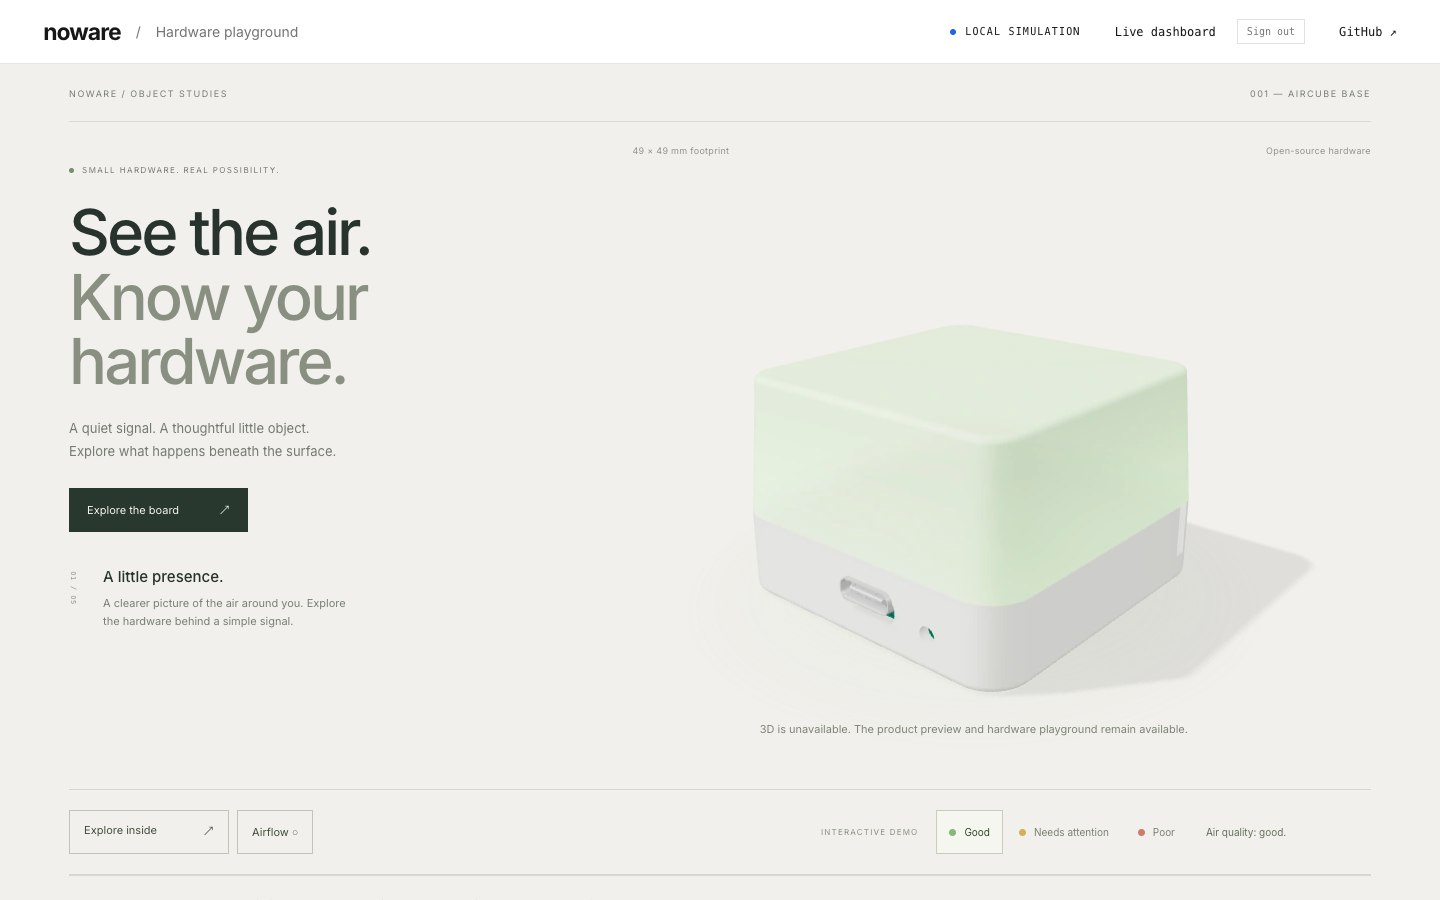
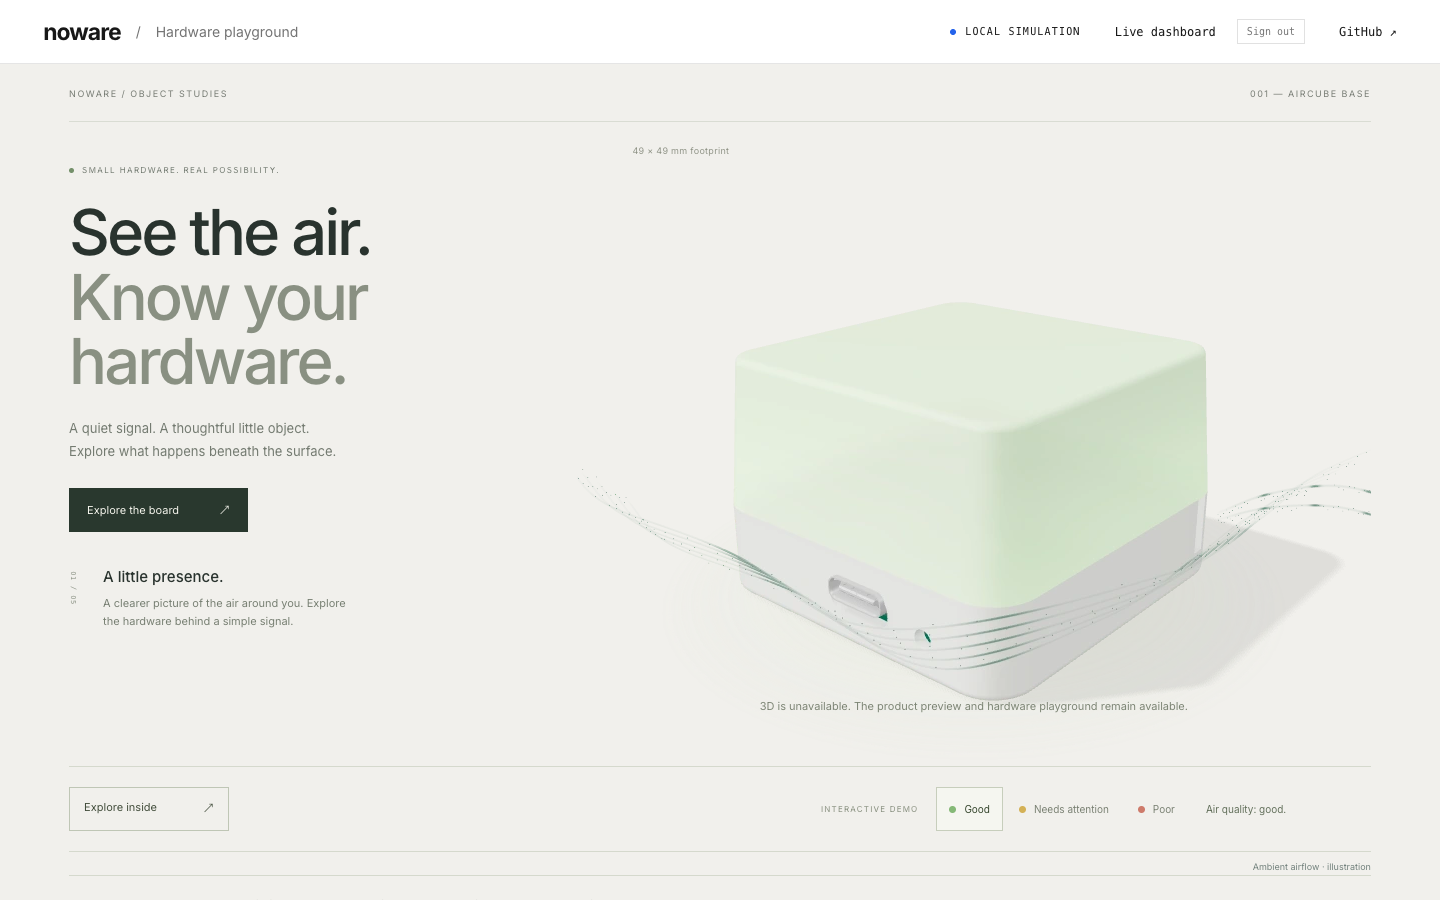
Keep airflow persistent and remove open-source label

diff --git a/src/showcase/index.js b/src/showcase/index.js
@@ -2,7 +2,7 @@ import './showcase.css';
 import {chapters,storyPose} from './config.js';
 export function mountShowcase(){
  const section=document.createElement('section');section.className='hardware-story';section.id='hardware';section.setAttribute('aria-label','Explore AirCube hardware');
- section.innerHTML=`<div class="hardware-sticky"><div class="hardware-topline"><span>NOWARE / OBJECT STUDIES</span><span>001 — AIRCUBE BASE</span></div><div class="hardware-layout"><div class="hardware-copy"><div class="hardware-kicker"><span></span> SMALL HARDWARE. REAL POSSIBILITY.</div><h2>See the air.<br><em>Know your<br class="desktop-break"> hardware.</em></h2><p class="hardware-intro">A quiet signal. A thoughtful little object.<br>Explore what happens beneath the surface.</p><a class="hardware-cta" href="#playground">Explore the board <span>↗</span></a><div class="hardware-chapter"><span id="hardware-number">01 / 05</span><h3 id="hardware-title">A little presence.</h3><p id="hardware-description">A clearer picture of the air around you. Explore the hardware behind a simple signal.</p></div></div><div class="hardware-visual"><div class="hardware-model-meta"><span>49 × 49 mm footprint</span><span>Open-source hardware</span></div><img class="hardware-poster" src="/showcase/poster.webp" alt="AirCube Base, a softly illuminated translucent top on a warm white rounded enclosure" width="1100" height="1000" fetchpriority="high"><div class="hardware-canvas"></div><div class="hardware-anchors"><button data-anchor="diffuser" data-part="diffuser" hidden>Diffuser</button><button data-anchor="U2" data-part="U2" hidden>ENS161</button><button data-anchor="pcb" data-part="pcb" hidden>Base PCB</button></div><div class="hardware-view-tools"><span>↔ Drag to rotate</span><button data-action="reset">Reset view ↺</button></div><p class="hardware-fallback" role="status">Loading the interactive model…</p></div></div><div class="hardware-controls"><div class="hardware-assembly"><button data-action="explode" aria-pressed="false">Explore inside <span>↗</span></button><button data-action="airflow" aria-pressed="false">Airflow <span>○</span></button></div><div class="hardware-air"><span class="hardware-demo">INTERACTIVE DEMO</span><div role="group" aria-label="Air quality demonstration"><button data-air="good" aria-pressed="true"><i></i>Good</button><button data-air="attention" aria-pressed="false"><i></i>Needs attention</button><button data-air="poor" aria-pressed="false"><i></i>Poor</button></div><span class="hardware-status" role="status">Air quality: good.</span></div></div><p class="hardware-flow-note" hidden>Ambient airflow · illustration</p><nav class="hardware-chapters" aria-label="Hardware story">${['Meet the hardware','Explore inside','Follow the air','Read the light','Keep exploring'].map((t,i)=>`<button data-chapter="${i}" aria-current="${i===0?'step':'false'}"><span>0${i+1}</span>${t}</button>`).join('')}<button data-action="scroll" hidden>Resume scroll story ↓</button></nav><div class="hardware-bottomline"><span>BUILT FROM REAL CAD. MADE FOR CURIOSITY.</span><a href="/showcase/README.md" target="_blank" rel="noreferrer">Model & source notes ↗</a></div></div>`;
+ section.innerHTML=`<div class="hardware-sticky"><div class="hardware-topline"><span>NOWARE / OBJECT STUDIES</span><span>001 — AIRCUBE BASE</span></div><div class="hardware-layout"><div class="hardware-copy"><div class="hardware-kicker"><span></span> SMALL HARDWARE. REAL POSSIBILITY.</div><h2>See the air.<br><em>Know your<br class="desktop-break"> hardware.</em></h2><p class="hardware-intro">A quiet signal. A thoughtful little object.<br>Explore what happens beneath the surface.</p><a class="hardware-cta" href="#playground">Explore the board <span>↗</span></a><div class="hardware-chapter"><span id="hardware-number">01 / 05</span><h3 id="hardware-title">A little presence.</h3><p id="hardware-description">A clearer picture of the air around you. Explore the hardware behind a simple signal.</p></div></div><div class="hardware-visual"><div class="hardware-model-meta"><span>49 × 49 mm footprint</span></div><img class="hardware-poster" src="/showcase/poster.webp" alt="AirCube Base, a softly illuminated translucent top on a warm white rounded enclosure" width="1100" height="1000" fetchpriority="high"><div class="hardware-canvas"></div><div class="hardware-anchors"><button data-anchor="diffuser" data-part="diffuser" hidden>Diffuser</button><button data-anchor="U2" data-part="U2" hidden>ENS161</button><button data-anchor="pcb" data-part="pcb" hidden>Base PCB</button></div><div class="hardware-view-tools"><span>↔ Drag to rotate</span><button data-action="reset">Reset view ↺</button></div><p class="hardware-fallback" role="status">Loading the interactive model…</p></div></div><div class="hardware-controls"><div class="hardware-assembly"><button data-action="explode" aria-pressed="false">Explore inside <span>↗</span></button></div><div class="hardware-air"><span class="hardware-demo">INTERACTIVE DEMO</span><div role="group" aria-label="Air quality demonstration"><button data-air="good" aria-pressed="true"><i></i>Good</button><button data-air="attention" aria-pressed="false"><i></i>Needs attention</button><button data-air="poor" aria-pressed="false"><i></i>Poor</button></div><span class="hardware-status" role="status">Air quality: good.</span></div></div><p class="hardware-flow-note">Ambient airflow · illustration</p><nav class="hardware-chapters" aria-label="Hardware story">${['Meet the hardware','Explore inside','Follow the air','Read the light','Keep exploring'].map((t,i)=>`<button data-chapter="${i}" aria-current="${i===0?'step':'false'}"><span>0${i+1}</span>${t}</button>`).join('')}<button data-action="scroll" hidden>Resume scroll story ↓</button></nav><div class="hardware-bottomline"><span>BUILT FROM REAL CAD. MADE FOR CURIOSITY.</span><a href="/showcase/README.md" target="_blank" rel="noreferrer">Model & source notes ↗</a></div></div>`;
  document.querySelector('header').after(section);
  // Keep the engineering tools available on demand, without a PCB list filling
  // the landing page. Existing event handlers and DOM references remain intact.
@@ -12,16 +12,15 @@ export function mountShowcase(){
  playground.append(intro,document.querySelector('main'));
  section.querySelector('.hardware-cta').addEventListener('click',()=>{playground.open=true;});
  const $=s=>section.querySelector(s),reduced=matchMedia('(prefers-reduced-motion: reduce)'),mobile=matchMedia('(max-width: 700px)');
- const state={progress:0,air:'good',selected:null,mode:reduced.matches||mobile.matches?'manual':'scroll',exploded:false,airflow:null,rotation:0,tilt:0,dragging:false,reduced:reduced.matches};let scene,dead=false;
- function sync(){const pose=storyPose(state.progress),expanded=state.mode==='scroll'?pose.explode>.5:state.exploded;section.dataset.mode=state.mode;section.dataset.chapter=pose.chapter;section.dataset.selected=state.selected||'';section.style.setProperty('--air-color',({good:'#7dbb70',attention:'#cea338',poor:'#d26c5c'})[state.air]);$('#hardware-number').textContent=`0${pose.chapter+1} / 05`;$('#hardware-title').textContent=chapters[pose.chapter][1];$('#hardware-description').textContent=chapters[pose.chapter][2];$('[data-action="explode"]').innerHTML=(expanded?'Reassemble':'Explore inside')+' <span>↗</span>';$('[data-action="explode"]').setAttribute('aria-pressed',expanded);const flow=state.airflow??pose.flow;$('[data-action="airflow"]').setAttribute('aria-pressed',flow);$('.hardware-flow-note').hidden=!flow;$('[data-action="scroll"]').hidden=state.mode==='scroll'||mobile.matches||state.reduced;section.querySelectorAll('[data-chapter]').forEach(b=>b.setAttribute('aria-current',+b.dataset.chapter===pose.chapter?'step':'false'));scene?.wake();}
+ const state={progress:0,air:'good',selected:null,mode:reduced.matches||mobile.matches?'manual':'scroll',exploded:false,rotation:0,tilt:0,dragging:false,reduced:reduced.matches};let scene,dead=false;
+ function sync(){const pose=storyPose(state.progress),expanded=state.mode==='scroll'?pose.explode>.5:state.exploded;section.dataset.mode=state.mode;section.dataset.chapter=pose.chapter;section.dataset.selected=state.selected||'';section.style.setProperty('--air-color',({good:'#7dbb70',attention:'#cea338',poor:'#d26c5c'})[state.air]);$('#hardware-number').textContent=`0${pose.chapter+1} / 05`;$('#hardware-title').textContent=chapters[pose.chapter][1];$('#hardware-description').textContent=chapters[pose.chapter][2];$('[data-action="explode"]').innerHTML=(expanded?'Reassemble':'Explore inside')+' <span>↗</span>';$('[data-action="explode"]').setAttribute('aria-pressed',expanded);$('[data-action="scroll"]').hidden=state.mode==='scroll'||mobile.matches||state.reduced;section.querySelectorAll('[data-chapter]').forEach(b=>b.setAttribute('aria-current',+b.dataset.chapter===pose.chapter?'step':'false'));scene?.wake();}
  function select(name){state.selected=name;section.querySelectorAll('[data-part]').forEach(b=>b.setAttribute('aria-pressed',b.dataset.part===name));sync()}
  section.addEventListener('click',e=>{const b=e.target.closest('button');if(!b)return;if(b.dataset.air){state.air=b.dataset.air;section.querySelectorAll('button[data-air]').forEach(el=>el.setAttribute('aria-pressed',el===b));$('.hardware-status').textContent='Air quality: '+({good:'good',attention:'needs attention',poor:'poor'})[state.air]+'.';}
  if(b.dataset.part)select(b.dataset.part);
- if(b.dataset.chapter){const i=+b.dataset.chapter;state.mode='manual';state.progress=i===4?1:(i+.5)/5;state.exploded=i===1||i===2;state.airflow=i===2;}
+ if(b.dataset.chapter){const i=+b.dataset.chapter;state.mode='manual';state.progress=i===4?1:(i+.5)/5;state.exploded=i===1||i===2;}
  if(b.dataset.action==='explode'){state.exploded=!(state.mode==='scroll'?storyPose(state.progress).explode>.5:state.exploded);state.mode='manual';state.progress=state.exploded?.3:.05;}
- if(b.dataset.action==='airflow')state.airflow=!(state.airflow??storyPose(state.progress).flow);
  if(b.dataset.action==='reset'){state.rotation=0;state.tilt=0;}
- if(b.dataset.action==='scroll'){state.mode='scroll';state.airflow=null;scroll();}sync();});
+ if(b.dataset.action==='scroll'){state.mode='scroll';scroll();}sync();});
  function scroll(){if(state.mode!=='scroll')return;const r=section.getBoundingClientRect();state.progress=Math.max(0,Math.min(1,-r.top/(section.offsetHeight-innerHeight)));sync()}
  function motion(){state.reduced=reduced.matches;if(state.reduced||mobile.matches){state.mode='manual';state.progress=0;state.exploded=false;}sync()}
  window.addEventListener('scroll',scroll,{passive:true});reduced.addEventListener('change',motion);mobile.addEventListener('change',motion);sync();

diff --git a/src/showcase/scene.js b/src/showcase/scene.js
@@ -23,7 +23,7 @@ export async function createScene(host,state,onSelect,onReady){
  tint.lerp(new T.Color(settings.colors[state.air]),state.reduced?1:1-Math.exp(-dt*4));diffuser.material.emissive.copy(tint);diffuser.material.color.copy(new T.Color('#faf8eb').lerp(tint,.55));diffuser.material.emissiveIntensity=.36*(1-currentExplode*.5);spill.material.color.copy(tint);spill.material.opacity=.14*(1-currentExplode*.8);
  rotation=state.reduced?state.rotation:T.MathUtils.damp(rotation,state.rotation,8,dt);tilt=state.reduced?state.tilt:T.MathUtils.damp(tilt,state.tilt,8,dt);pivot.rotation.y=rotation+(!state.reduced&&!state.dragging&&state.rotation===0?Math.sin(time*.22)*.035:0);pivot.rotation.x=tilt;pivot.position.y=state.reduced?0:(1-currentExplode)*(1.2+Math.sin(time*.8)*.45);
  for(const [o,base]of bases){if(o===diffuser)continue;let p=o,selected=false;while(p){if(p.name===state.selected)selected=true;p=p.parent}o.material.emissive.copy(selected?new T.Color('#6c9470').multiplyScalar(.25):base);}
- flow.group.visible=state.airflow===null?pose.flow:state.airflow;flow.group.position.y=currentExplode*settings.explode.pcb;flow.update(time,tint,state.reduced);
+ flow.group.position.y=currentExplode*settings.explode.pcb;flow.update(time,tint,state.reduced);
  const sensor=parts.U2;if(flow.group.visible)sensor.traverse(o=>{if(o.material?.emissive)o.material.emissive.copy(tint).multiplyScalar(.22)});
  const distance=(innerWidth<650?1.15:1)*(1+currentExplode*.2);camera.position.set(...settings.camera).multiplyScalar(distance);camera.lookAt(0,19+currentExplode*14,0);
  scene.updateMatrixWorld(true);for(const label of labels){const o=parts[label.dataset.anchor];const pos=new T.Box3().setFromObject(o).getCenter(new T.Vector3()).project(camera);label.style.left=(pos.x*.5+.5)*host.clientWidth+'px';label.style.top=(-pos.y*.5+.5)*host.clientHeight+'px';label.hidden=currentExplode<.65;}

diff --git a/src/showcase/config.js b/src/showcase/config.js
@@ -7,4 +7,4 @@ export const chapters=[
  ['05','Made for curiosity.','From the enclosure to every connection. Keep exploring the real board below.']
 ];
 export const components={diffuser:['Translucent diffuser','Softens the light from the board’s RGB LEDs into a glanceable indication.'],airwall:['Air wall','The printed partition separates the sensing area from the rest of the enclosure.'],pcb:['Base PCB','The source board brings sensing, control, USB power, and three RGB LEDs together.'],U2:['ENS161 · VOC sensor','Responds to volatile organic compounds. Its CO₂ estimate is not a direct CO₂ measurement.'],U10:['ENS210 · Temperature & humidity','Measures temperature and relative humidity on the Base variant.'],U7:['ESP32-H2 · Controller','Runs the sensor and LED firmware, with Bluetooth LE and IEEE 802.15.4 connectivity.'],housing:['Printed housing','The original CAD includes the USB opening, ventilation gaps, rounded corners, and mounting features.']};
-export function storyPose(progress){const p=Math.max(0,Math.min(1,progress));const smooth=x=>{x=Math.max(0,Math.min(1,x));return x*x*(3-2*x)};return {explode:smooth((p-.12)/.2)*(1-smooth((p-.6)/.2)),flow:p>=.4&&p<.7,chapter:Math.min(4,Math.floor(p*5))};}
+export function storyPose(progress){const p=Math.max(0,Math.min(1,progress));const smooth=x=>{x=Math.max(0,Math.min(1,x));return x*x*(3-2*x)};return {explode:smooth((p-.12)/.2)*(1-smooth((p-.6)/.2)),chapter:Math.min(4,Math.floor(p*5))};}

diff --git a/tests/showcase.test.js b/tests/showcase.test.js
@@ -1,2 +1,2 @@
 import {test} from 'node:test';import assert from 'node:assert/strict';import {storyPose} from '../src/showcase/config.js';
-test('story assembly reverses deterministically and closes at both ends',()=>{assert.equal(storyPose(0).explode,0);assert.equal(storyPose(1).explode,0);assert.equal(storyPose(.5).explode,1);assert.equal(storyPose(.5).flow,true);const forward=Array.from({length:101},(_,i)=>storyPose(i/100));for(let i=100;i>=0;i--)assert.deepEqual(storyPose(i/100),forward[i]);for(const pose of forward)assert.ok(pose.explode>=0&&pose.explode<=1);});
+test('story assembly reverses deterministically and closes at both ends',()=>{assert.equal(storyPose(0).explode,0);assert.equal(storyPose(1).explode,0);assert.equal(storyPose(.5).explode,1);const forward=Array.from({length:101},(_,i)=>storyPose(i/100));for(let i=100;i>=0;i--)assert.deepEqual(storyPose(i/100),forward[i]);for(const pose of forward)assert.ok(pose.explode>=0&&pose.explode<=1);});

diff --git a/SHOWCASE-HANDOFF.md b/SHOWCASE-HANDOFF.md
@@ -50,3 +50,5 @@ Three.js's shared bundle exceeds Vite's 500 kB advisory; it is dynamically loade
 The separate authenticated live dashboard and production deployment are unchanged.
 
 The PCB list and engineering tools are now collapsed by default under Hardware playground. The hero CTA opens them on demand. Component selection highlights the model without a persistent explanatory text row.
+
+Airflow is always visible in every chapter and manual assembly state. There is no on/off control. Reduced motion keeps the same trails visible but stationary. The fallback poster includes airflow.
